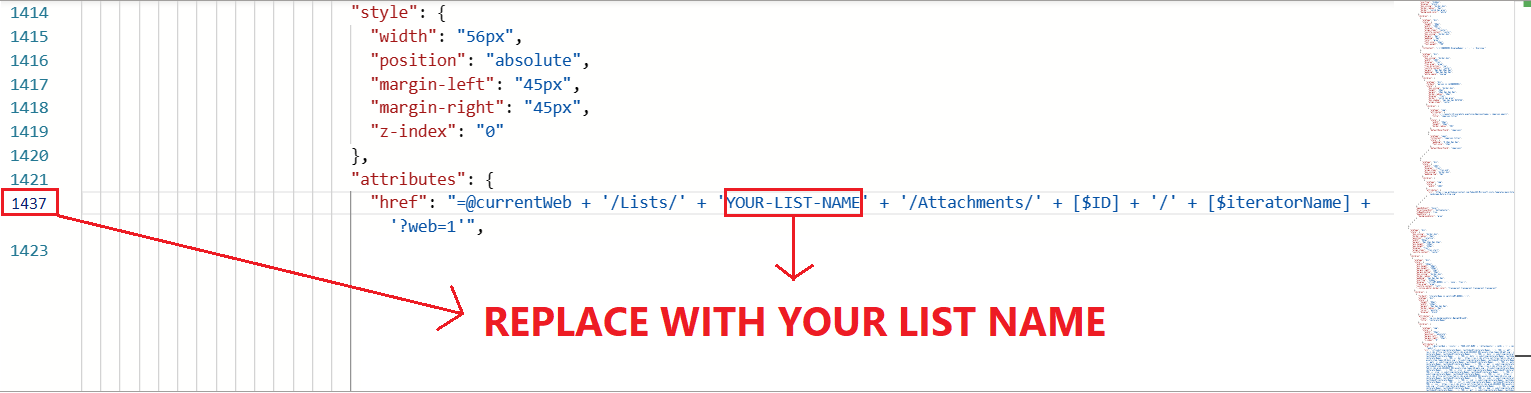
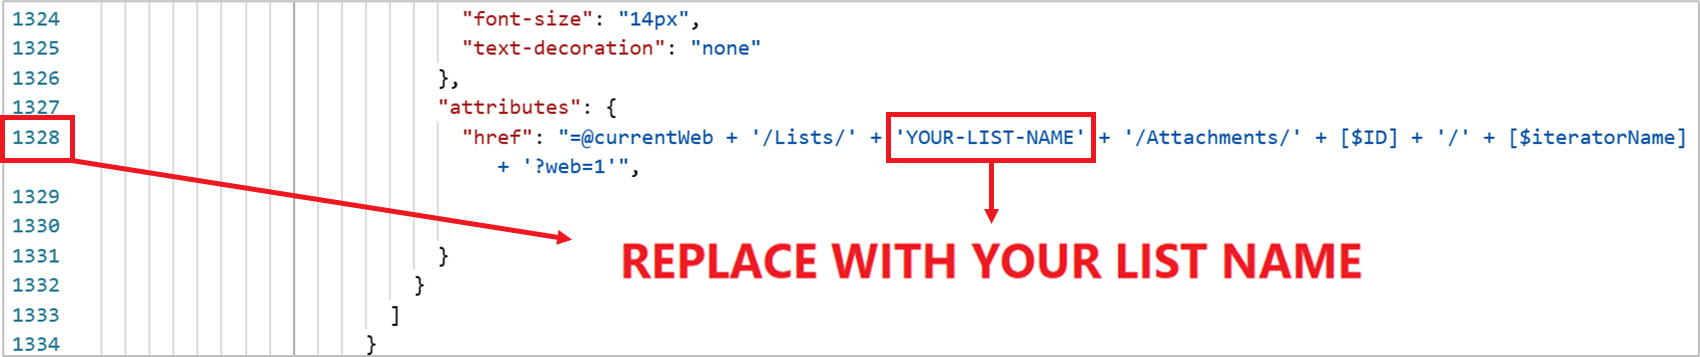
Minor updates

diff --git a/view-samples/internal-cv/README.md b/view-samples/internal-cv/README.md
@@ -1,7 +1,7 @@
 # Internal CV
 
 ## Summary
-This tutorial will help you create a basic internal CV through JSON view formatting. Thanks to JSON formatting, it's possible to create a large custom card to be used as a form itself, by taking advantage of the [inline editing](https://learn.microsoft.com/en-us/sharepoint/dev/declarative-customization/formatting-advanced#inline-editing) feature. Let others know **more about you**, what you're good at, and what you're working on right now. Add projects, skills, and education history to your profile to help others find you when they're looking for people with a **certain expertise**.
+This tutorial will help you create a basic internal CV through JSON view formatting. Thanks to JSON formatting, it's possible to create a large custom card to be used as a form itself, by taking advantage of the [inline editing](https://learn.microsoft.com/sharepoint/dev/declarative-customization/formatting-advanced#inline-editing) feature. Let others know **more about you**, what you're good at, and what you're working on right now. Add projects, skills, and education history to your profile to help others find you when they're looking for people with a **certain expertise**.
 
 <img src="./assets/Internal-CV-preview.png" width="70%">
 
@@ -31,20 +31,19 @@ Here is a visual description of the user interface:
 
 **1) LIST CREATION:** create a new list from scratch with the following columns, including their **exact names with capital letters**:
 
-
-| **COLUMN NAME** | **COLUMN TYPE** |
-|:-----------------|-----------------|
-| **COVER**       | Image column. This will allow a user to customize their profile image header.             |
-| **BACKGROUND**           | Image column. This will allow a user to add a custom image background.               |
-| **Created By**     | This is a standard column, required to display a user name in the internal CV. Include this column in your view.             |
-| **YAMMER_PROFILE**            | Multiple lines of text. Rich text **disabled**. This column allows a user to write his/her Yammer profile link in the standard right pane and make it available to others, through the corresponding toolbar icon.                |
-| **ABOUT_ME**        | Multiple lines of text. Rich text **disabled**. This column allows a user to provide a short personal description.                |
-| **PROJECTS**   | MultiChoice column. This column allows a user to list both past and current projects. List owners (HR personnel) can setup this column to contain custom choices or not.                |
-| **SKILLS_EXPERTISE**        | MultiChoice column. This column allows a user to list both skills and expertise. List owners (HR personnel) can setup this column to contain custom choices or not.                |
-| **SCHOOLS_EDUCATION**        | MultiChoice column. This column allows a user to list info about his/her schools and education path. Custom choices are recommended.                |
-| **BADGES_CERTIFICATIONS**          | MultiChoice column. This column allows a user to list badges and certifications earned. List owners (HR personnel) can setup this column to contain custom choices or not.               |
-| **MY_WORKS**        | Multiple lines of text. Rich text **disabled**. This column depends on the OOTB Attachments column and a speficic Power Automate flow to list and display clickable attachments tiles in the internal CV.                 |
-| **COWORKERS**   | Multi person column. Altough Microsoft 365 already provides info about related colleagues, a user could provide updated and consistent info about **actual** coworkers he/she is collaborating with.                |
+|**COLUMN NAME**|**COLUMN TYPE**|**ADDITIONAL INFORMATION**|
+|---|---|---|
+|**COVER**|Image|This will allow a user to customize their profile image header.|
+|**BACKGROUND**|Image|This will allow a user to add a custom image background.|
+|**Created By**| Person or Group |This is a standard column, required to display a user name in the internal CV. Include this column in your view.|
+|**YAMMER_PROFILE**|Multiple lines of text (Rich text **disabled**) |This column allows a user to write his/her Yammer profile link in the standard right pane and make it available to others, through the corresponding toolbar icon.|
+|**ABOUT_ME**|Multiple lines of text (Rich text **disabled**)|This column allows a user to provide a short personal description.|
+|**PROJECTS**|Multi-Select Choice|This column allows a user to list both past and current projects. List owners (HR personnel) can setup this column to contain custom choices or not.|
+|**SKILLS_EXPERTISE**|Multi-Select Choice|This column allows a user to list both skills and expertise. List owners (HR personnel) can setup this column to contain custom choices or not.|
+|**SCHOOLS_EDUCATION**|Multi-Select Choice|This column allows a user to list info about his/her schools and education path. Custom choices are recommended.|
+|**BADGES_CERTIFICATIONS**|Multi-Select Choice|This column allows a user to list badges and certifications earned. List owners (HR personnel) can setup this column to contain custom choices or not.|
+|**MY_WORKS**|Multiple lines of text (Rich text **disabled**)|This column depends on the OOTB Attachments column and a specific Power Automate flow to list and display clickable attachments tiles in the internal CV.|
+|**COWORKERS**|Multi-Select Person|Although Microsoft 365 already provides info about related colleagues, a user could provide updated and consistent info about **actual** coworkers he/she is collaborating with.|
 
 **NOTE:** the standard and well known **Title** column isn't used in this sample, therefore you can make it not mandatory through the advanced list settings and exclude it both from the view and the standard right pane form.
 
@@ -63,15 +62,15 @@ Here is a visual description of the user interface:
 **6) VIEW FILTERING FOR A BETTER USER EXPERIENCE:** even if a user can open this list with all the existing items (internal CVs created by others), setting up an already filtered view could be a better option. This behaviour is recommended to allow a user to open his/her internal CV later, without performing a search. To make this work, go to the list settings, scroll down and click on the gallery view you just created. Then, scroll down again to the **Filter** section, apply and save the following setup:
 
 ![view filtering](./assets/Created-by.png)
- 
-**7) YOUR LIST NAME REPLACEMENT:**  go to line number **1437** and **1460** of the JSON code and replace the dummy text with your real list name, as shown in the sample image below:
+
+**7) YOUR LIST NAME REPLACEMENT:**  go to line number **1305** and **1328** of the JSON code and replace the dummy text with your real list name, as shown in the sample image below:
 
 ![list name replacement](./assets/Replace-List-Name.png)
 
 ⚠ **Warning:** the real list name is the one you can find in your browser address bar! Therefore, if you have created a list named "Internal CV", then you have to copy the coded name in the address bar, that is "Internal%20CV".
 
 ## EMPTY CARD AFTER ITEM CREATION
-Since this sample doesn't have any mandatory column, a user can create a new internal CV and save it immediately, without worrying about the standard right pane form. The resulting empty card will be ready to be filled out, thanks to the [inline editing](https://learn.microsoft.com/en-us/sharepoint/dev/declarative-customization/formatting-advanced#inline-editing) feature of Microsoft Lists:
+Since this sample doesn't have any mandatory column, a user can create a new internal CV and save it immediately, without worrying about the standard right pane form. The resulting empty card will be ready to be filled out, thanks to the [inline editing](https://learn.microsoft.com/sharepoint/dev/declarative-customization/formatting-advanced#inline-editing) feature of Microsoft Lists:
 
 ![list name replacement](./assets/InlineEditing.gif)
 
@@ -107,14 +106,11 @@ As explained in a tutorial made by [Reza Dorrani](https://www.youtube.com/watch?
 
 💡 You can find out more about the split operator in a [detailed article](https://michelcarlo.com/2022/09/10/two-approaches-to-replace-all-occurrences-of-a-value-in-a-string-using-sharepoint-list-formatting-replaceall-split-join/) written by [**Michel Mendes**](https://www.linkedin.com/in/michelcarlo) and an [amazing implementation](https://github.com/pnp/List-Formatting/tree/master/column-samples/number-zero-to-ten-rating) shared by [**Tetsuya Kawahara**](https://www.linkedin.com/in/tetsuya-kawahara-730498180).
 
-
 ## Sample
 
 Solution|Author(s)
 --------|---------
 internal-cv.json | [Federico Sapia](https://github.com/Fedes365) ([LinkedIn](https://www.linkedin.com/in/federicosapia/))
-
-
 
 ## Version history
 
@@ -122,9 +118,7 @@ Version |Date              |Comments
 --------|------------------|--------------------------------
 1.0     |December 21, 2022  |Initial release
 
-
 ## Disclaimer
 **THIS CODE IS PROVIDED *AS IS* WITHOUT WARRANTY OF ANY KIND, EITHER EXPRESS OR IMPLIED, INCLUDING ANY IMPLIED WARRANTIES OF FITNESS FOR A PARTICULAR PURPOSE, MERCHANTABILITY, OR NON-INFRINGEMENT.**
 
 <img src="https://pnptelemetry.azurewebsites.net/list-formatting/view-samples/internal-cv" />
-
